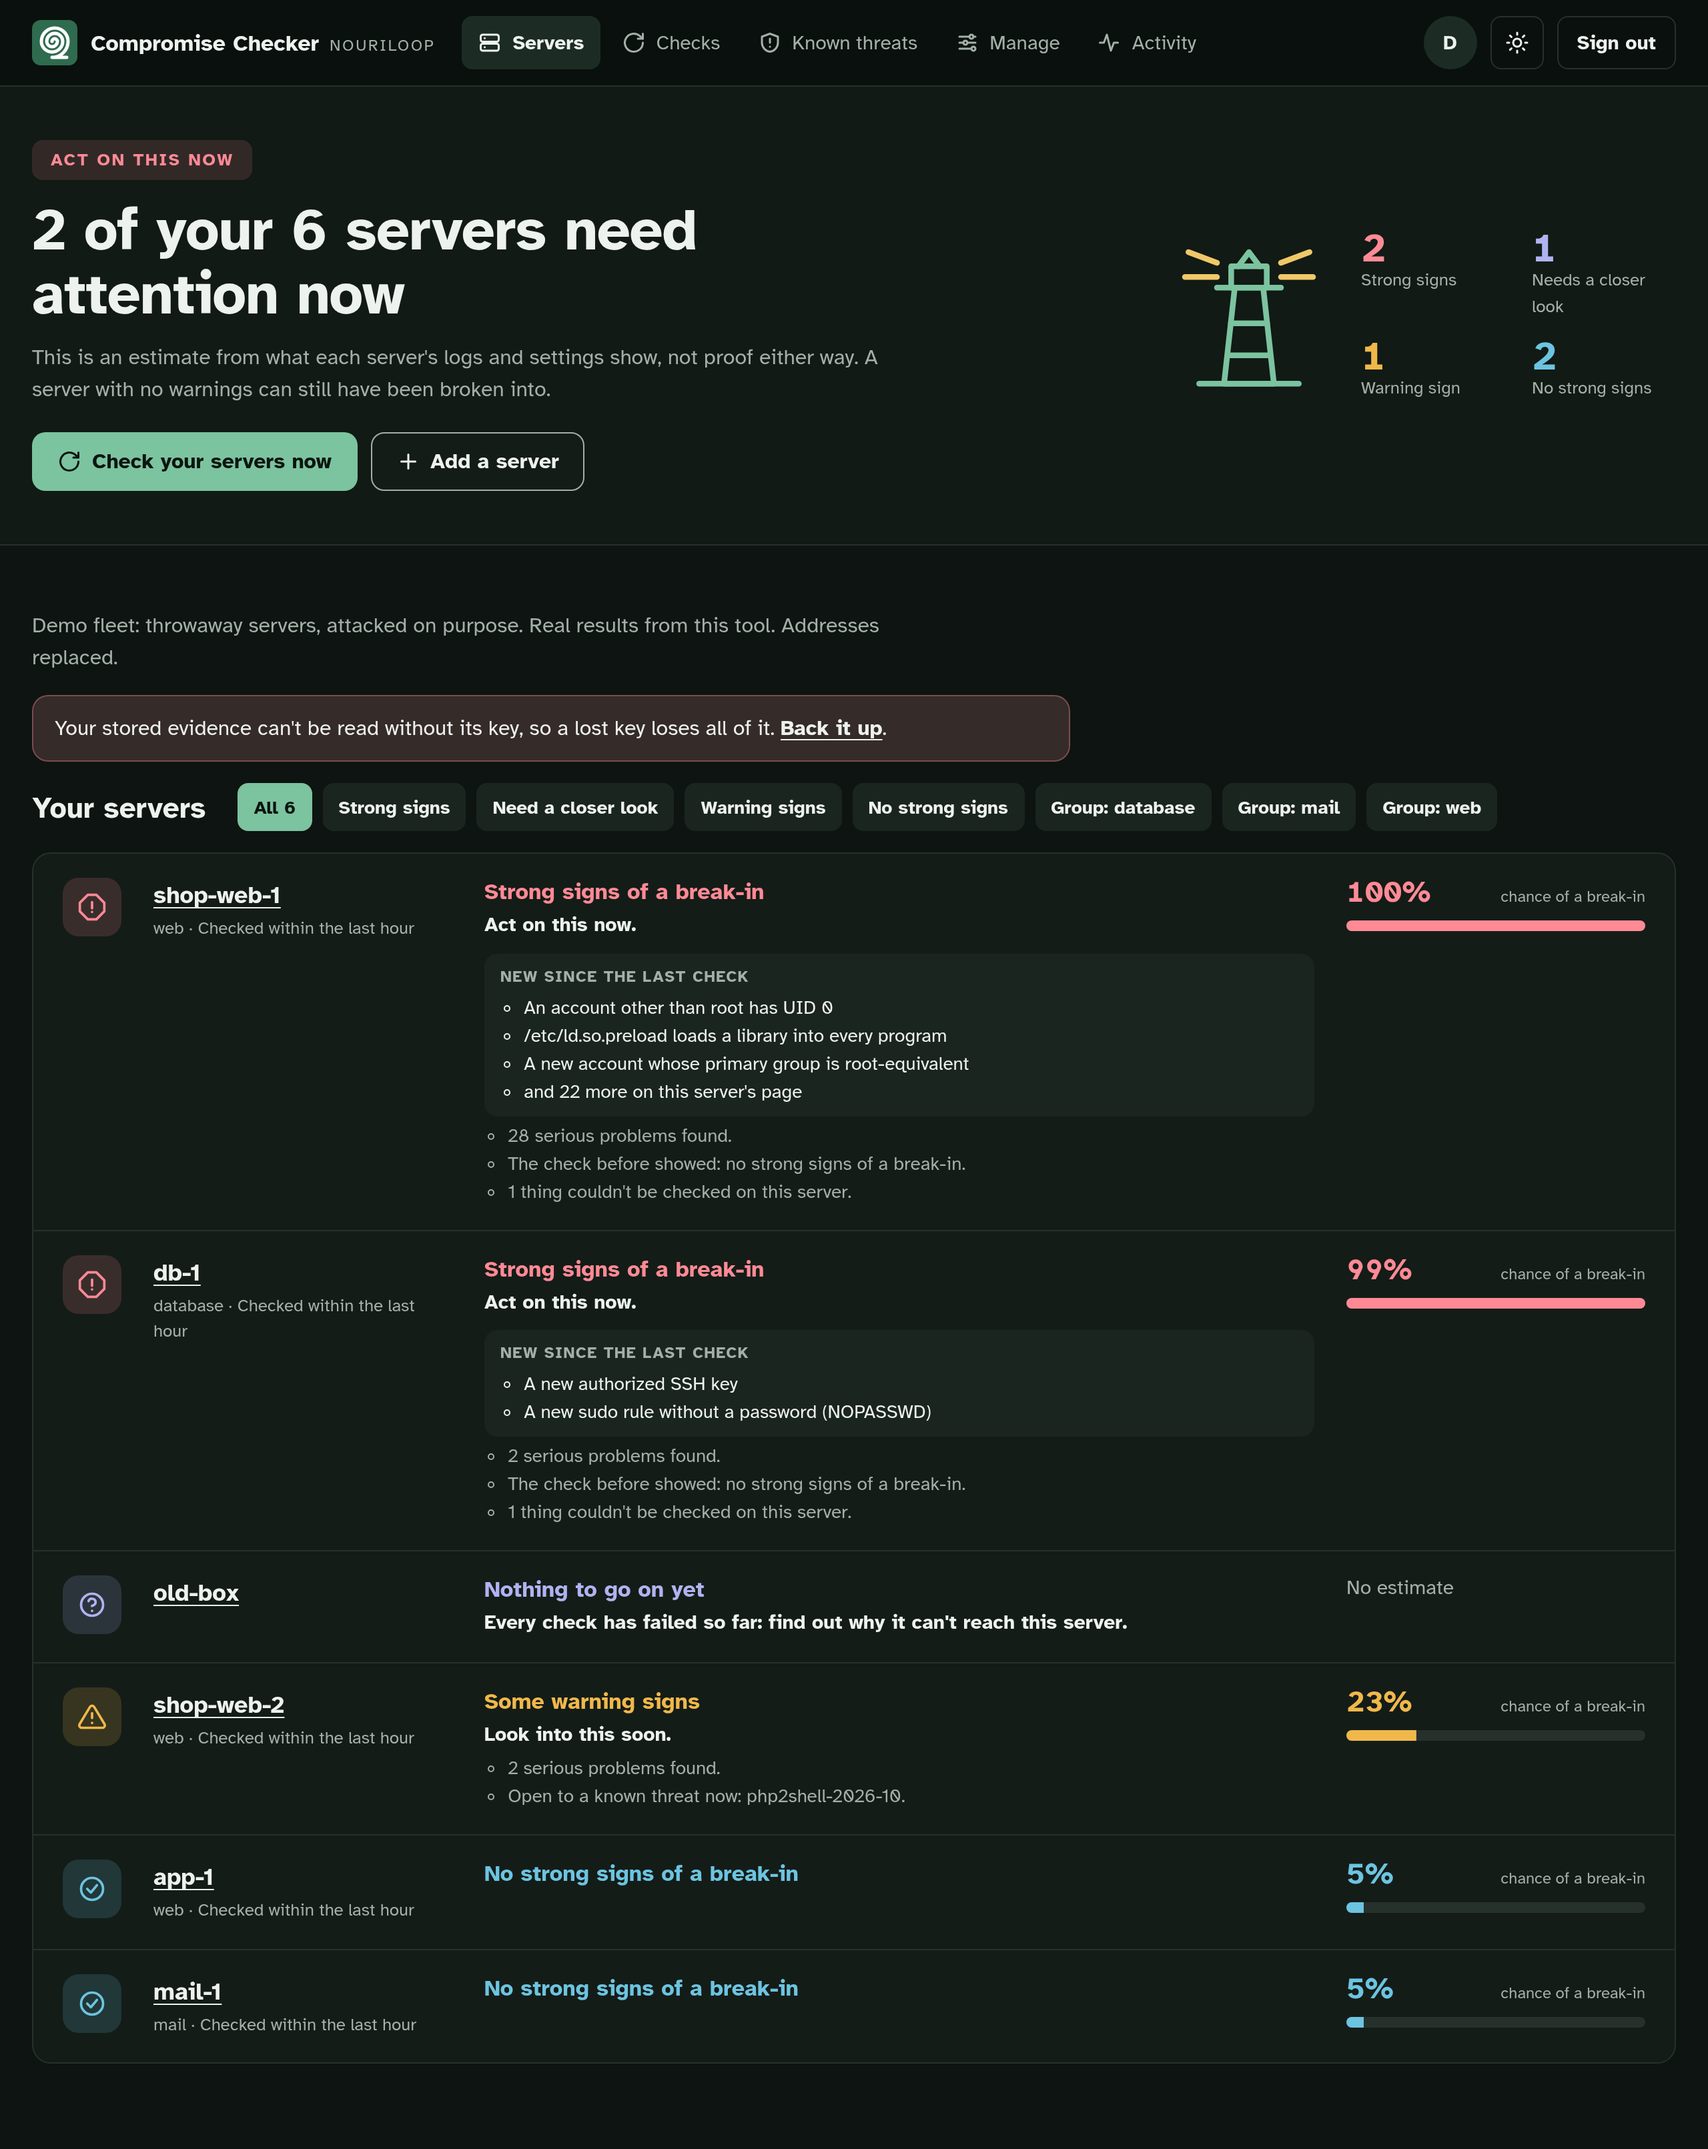
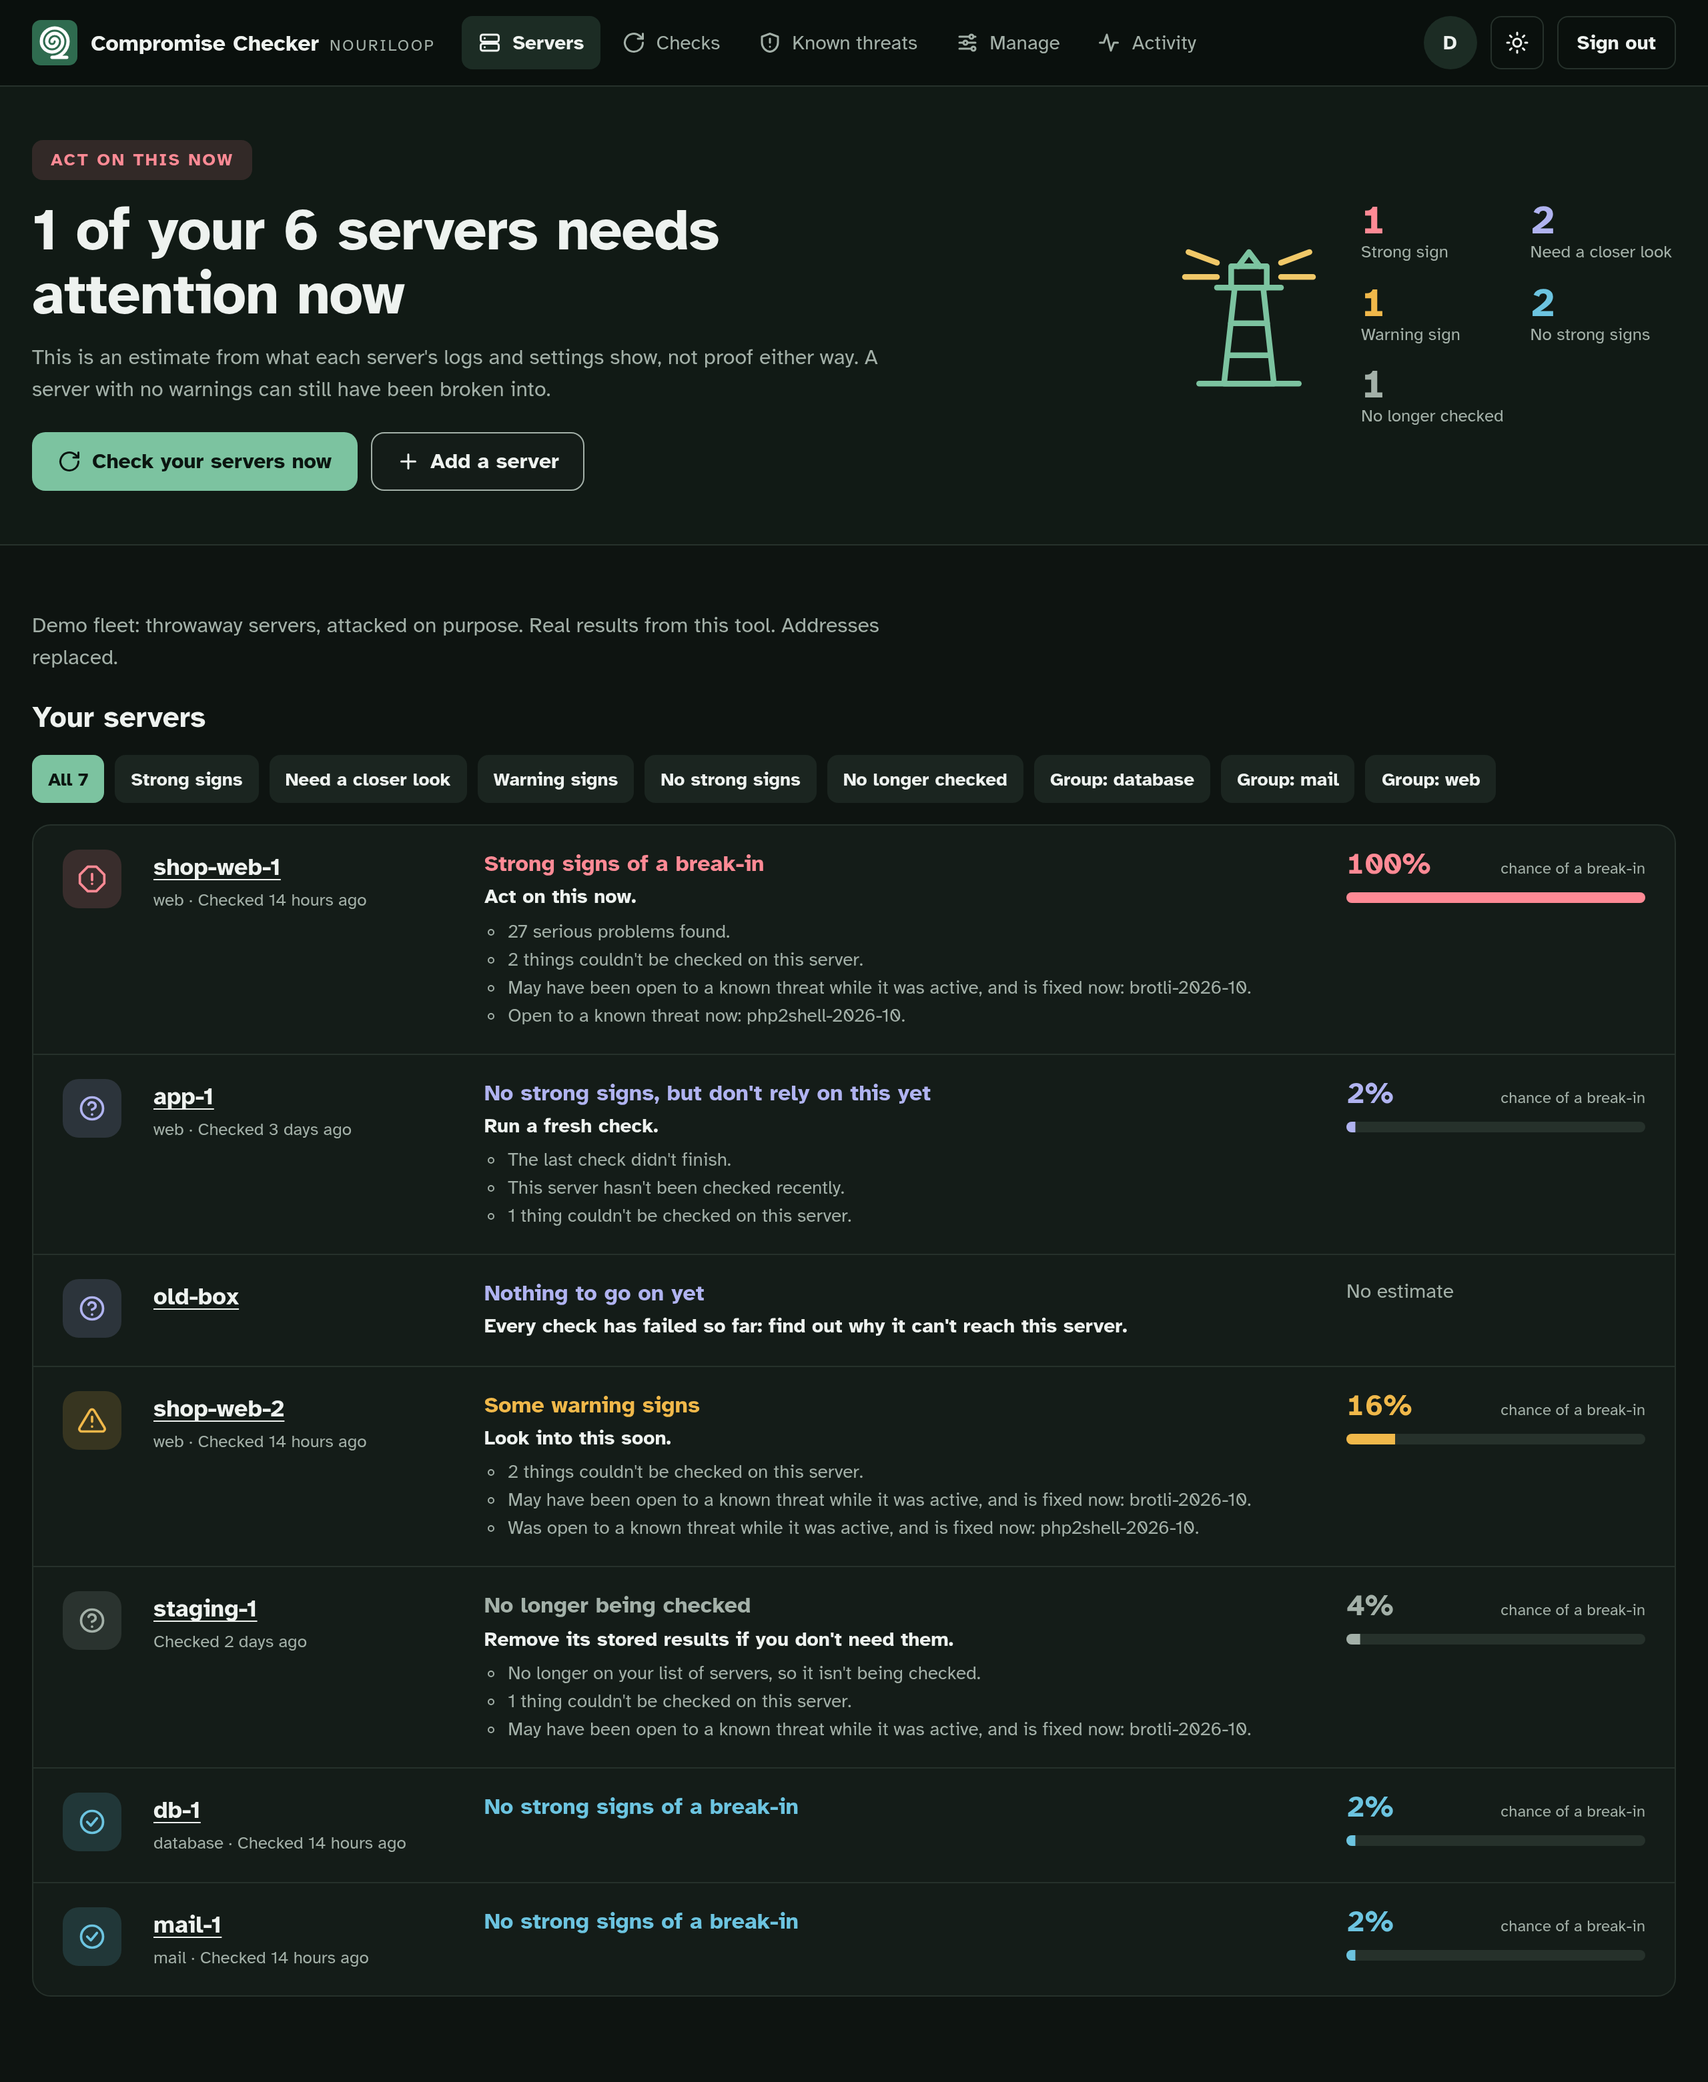
README pictures from the five-day run, scored by the current checker
The six pictures, taken from ~/demo-saves/run-a9020b-backup (saved 2026-11-20 after the
last check). The first take showed staging-1, untouched by the story, as signs of a
break-in: four false alarms, fixed in #197-#200. screenshots.py gains --scoring-changed
for a save older than the scoring:
- results that move are the newer code's: taken and printed, unless a whitelist rule
  has expired since the last check (that still stops the run);
- every check since each server's baseline is worked out again, oldest first, so the
  pages don't note the old code's bands ("The check before showed", "This same check
  first showed"); checks from before a baseline are left as they were, since they'd
  compare with a baseline accepted after them.

diff --git a/tests/integration/screenshots.py b/tests/integration/screenshots.py
@@ -14,6 +14,7 @@ from __future__ import annotations
 
 import argparse
 import getpass
+import json
 import os
 import re
 import secrets
@@ -108,6 +109,12 @@ def main() -> int:
     parser.add_argument("--out", type=Path, required=True)
     parser.add_argument("--name", default="Compromise Checker")
     parser.add_argument("--chromium", default=os.environ.get("CHROMIUM", "/usr/bin/chromium"))
+    parser.add_argument(
+        "--scoring-changed",
+        action="store_true",
+        help="the checker's scoring changed since the save: take its new results (each is"
+        " printed), unless a whitelist rule has expired since the last check",
+    )
     args = parser.parse_args()
     dataset = args.dataset.resolve()
     args.out = args.out.resolve()
@@ -121,7 +128,7 @@ def main() -> int:
         home = demo.working_copy(dataset, scratch)
         # From here on, the checker's code reads this copy and never the laptop's own home.
         os.environ["CHECKER_HOME"] = str(home)
-        score_again(home)
+        score_again(home, scoring_changed=args.scoring_changed)
         names = NAMES | {name: "admin" for name in demo.names_of(dataset)}
         return photograph(home, demo.addresses_of(dataset), names, args)
     except demo.DemoError as exc:
@@ -137,17 +144,84 @@ def main() -> int:
             )
 
 
-def score_again(home: Path) -> None:
+def score_again(home: Path, scoring_changed: bool = False) -> None:
     """Each server's latest result worked out again in the copy, with the same evidence and the
     same rules. A stored result names its whitelist by a digest that holds each rule file's full
     path, and the copy's files are in another folder from the server's: without this, every
     server would read "Settings have changed since this result". A rule's expiry counts from the
     day this runs, not the day of the last check, so the run stops if any server's result moves:
-    the pictures must show what the checks said."""
+    the pictures must show what the checks said.
+
+    When the checker's scoring changed since the save (`scoring_changed`), a result that moves is
+    the new code's and is taken, and printed; one that moves because a rule expired still stops
+    the run. Each check since each server's baseline is then worked out again too, oldest first,
+    and the latest last: the pages compare a result with the check before it and with the one
+    before it for the same collection, and would otherwise say "The check before showed" or
+    "This same check first showed" the old code's band, a note about the upgrade, not about the
+    fleet. A check from before a server's baseline is left as it was: worked out again, it would
+    compare with a baseline accepted after it ran."""
     before = results(home)
+    _analyze_all(home)
+    after = results(home)
+    moved = sorted(h for h in before.keys() | after.keys() if before.get(h) != after.get(h))
+    if not moved:
+        return
+    said = ", ".join(f"{h} ({before.get(h)} -> {after.get(h)})" for h in moved)
+    if not scoring_changed:
+        sys.exit(
+            f"screenshots: scoring the copy again changed {said}. A whitelist rule may have"
+            " expired since the last check: take the pictures the day the data was saved. If"
+            " the checker's scoring changed since the save, --scoring-changed takes the new"
+            " results."
+        )
+    if expired := expired_rules(home):
+        sys.exit(
+            "screenshots: scoring the copy again changed "
+            + said
+            + ", and whitelist rules have expired since the last check ("
+            + "; ".join(f"{h}: {', '.join(rules)}" for h, rules in sorted(expired.items()))
+            + "): the pictures would show results the checks never gave. Take them from a"
+            " fresh save."
+        )
+    for host in moved:
+        print(
+            f"screenshots: scored by the newer code: {host} {before.get(host)} -> {after.get(host)}"
+        )
+    for host, bundle in checks_since_baselines(home):
+        _analyze(home, [host, "--bundle", bundle])
+    if (again := results(home)) != after:
+        sys.exit(f"screenshots: scoring the copy a second time moved it again: {after} -> {again}")
+
+
+def checks_since_baselines(home: Path) -> list[tuple[str, str]]:
+    """(server, check) for each check collected since its server's current baseline, oldest
+    first, so each server's latest comes last."""
+    from checker.baseline import current_baseline, usable_bundles
+    from checker.evidence import Store, database_file
+
+    store = Store(database_file(home), read_only=True)
+    try:
+        found = []
+        for host in store.hosts():
+            baseline = current_baseline(store, host)
+            if baseline is None:
+                continue
+            since = store.bundle(baseline["bundle_id"])["started_at"]
+            rows = [r for r in usable_bundles(store, host) if r["started_at"] >= since]
+            found += [(r["started_at"], host, r["id"]) for r in rows]
+    finally:
+        store.close()
+    return [(host, bundle) for _, host, bundle in sorted(found)]
+
+
+def _analyze_all(home: Path) -> None:
+    _analyze(home, ["--all"])
+
+
+def _analyze(home: Path, words: list[str]) -> None:
     try:
         done = subprocess.run(
-            [sys.executable, "-I", "-m", "checker", "analyze", "--all"],
+            [sys.executable, "-I", "-m", "checker", "analyze", *words],
             env={**os.environ, "CHECKER_HOME": str(home)},
             capture_output=True,
             text=True,
@@ -158,14 +232,29 @@ def score_again(home: Path) -> None:
         sys.exit("screenshots: scoring the copy again took over 30 minutes; stopped")
     if done.returncode:
         sys.exit(f"screenshots: scoring the copy again failed:\n{done.stderr.strip()[-2000:]}")
-    after = results(home)
-    if moved := sorted(h for h in before.keys() | after.keys() if before.get(h) != after.get(h)):
-        sys.exit(
-            "screenshots: scoring the copy again changed "
-            + ", ".join(f"{h} ({before.get(h)} -> {after.get(h)})" for h in moved)
-            + ". A whitelist rule may have expired since the last check: take the pictures"
-            " the day the data was saved."
-        )
+
+
+def expired_rules(home: Path) -> dict[str, list[str]]:
+    """The whitelist rules each server's result now finds expired, from the report the copy's
+    checker writes (into the copy, which is deleted)."""
+    out = home / "screenshots-expired.json"
+    done = subprocess.run(
+        [sys.executable, "-I", "-m", "checker", "report", "--all", "--format", "json"]
+        + ["--plain", "--output", str(out)],
+        env={**os.environ, "CHECKER_HOME": str(home)},
+        capture_output=True,
+        text=True,
+        check=False,
+        timeout=1800,
+    )
+    if done.returncode:
+        sys.exit(f"screenshots: reading the copy's rules failed:\n{done.stderr.strip()[-2000:]}")
+    hosts = json.loads(out.read_text()).get("hosts") or []
+    return {
+        h["host"]: [str(r) for r in h["whitelist_rules_expired"]]
+        for h in hosts
+        if h.get("whitelist_rules_expired")
+    }
 
 
 def results(home: Path) -> dict[str, tuple[str | None, float | None]]:

diff --git a/tests/test_demo.py b/tests/test_demo.py
@@ -2226,6 +2226,44 @@ def test_the_pictures_folder_can_never_be_the_dataset_or_hold_it(tmp_path):
     assert "an earlier run's copy" in screenshots.refusal(dataset, other)
 
 
+def test_scoring_again_takes_newer_scoring_only_when_asked_and_never_past_an_expired_rule(
+    tmp_path, monkeypatch, capsys
+):
+    pytest.importorskip("playwright")
+    import subprocess
+
+    import screenshots
+
+    old = {"staging-1": ("High", 0.5664), "shop-web-1": ("Critical", 1.0)}
+    new = {"staging-1": ("Low", 0.0461), "shop-web-1": ("Critical", 1.0)}
+
+    def scored(before, after, expired=None, again=None):
+        answers = iter([before, after, again or after])
+        monkeypatch.setattr(screenshots, "results", lambda home: next(answers))
+        monkeypatch.setattr(screenshots, "expired_rules", lambda home: expired or {})
+        monkeypatch.setattr(screenshots, "checks_since_baselines", lambda home: [("db-1", "b2")])
+        monkeypatch.setattr(
+            screenshots.subprocess, "run", lambda *a, **k: subprocess.CompletedProcess(a, 0)
+        )
+
+    scored(old, old)
+    screenshots.score_again(tmp_path)  # nothing moved: nothing to say
+    scored(old, new)
+    with pytest.raises(SystemExit, match="--scoring-changed takes the new results"):
+        screenshots.score_again(tmp_path)
+    scored(old, new)
+    screenshots.score_again(tmp_path, scoring_changed=True)
+    assert "staging-1 ('High', 0.5664) -> ('Low', 0.0461)" in capsys.readouterr().out
+    # Every check since the baseline worked out again, so the pages don't note the old code's
+    # bands: the latest results must hold.
+    scored(old, new, again=old)
+    with pytest.raises(SystemExit, match="a second time moved it again"):
+        screenshots.score_again(tmp_path, scoring_changed=True)
+    scored(old, new, expired={"staging-1": ["host staging-1/backup-job"]})
+    with pytest.raises(SystemExit, match="staging-1: host staging-1/backup-job"):
+        screenshots.score_again(tmp_path, scoring_changed=True)
+
+
 def test_the_people_who_used_the_demo_are_named_from_its_own_records(tmp_path):
     """Seen in review: "john (web interface)" was in the evidence page's custody list."""
     import sqlite3

diff --git a/plans/demo-fleet-plan-2026-11-10.md b/plans/demo-fleet-plan-2026-11-10.md
@@ -277,6 +277,7 @@ folder on dev:
 3. `screenshots.py --dataset ~/demo-saves/run-<id>-backup --out docs/screenshots`, the same
    night: every page `ok` with no overflow and no page errors. It works each result out again
    in its copy, with rule expiry counted from that day, and stops if any score moves.
+   `--scoring-changed` when the checker's scoring changed since the save (see below).
 4. Look at all six before they go in: the demo banner on each; no evidence-key reminder (the
    script says the key is backed up, in its copy only); no red banner for password logins or a
    pending restart (#184); no "Settings have changed since this result" line (see below).
@@ -289,3 +290,15 @@ result looked scored against another whitelist. `screenshots.py` now runs `check
 in its copy first: the same evidence and rules, worked out again, scores unchanged. The digest
 itself is fixed in its own PR, since a restored or moved checker home showed the same; the five-day
 run's server still stores the old form, so the script's step stays needed for its data.
+
+**Done 2026-11-20 (a day late: Thursday's last check ran, the save didn't).** The checker's server
+was restarted first (a libc6 update's note), then saved twice (`run-a9020b`, `-backup`, both PASS).
+The first pictures showed staging-1, which the story never touched, as "Signs of a break-in, 57%":
+four false alarms after Ubuntu's daily update (#197 resolver file under /run, #198 setup accounts
+in the logs, #199 containerd's random port, #200 dpkg checksum lists), each fixed narrowly and
+reviewed twice, plus #196 for a test dated 2026-11-15. The pictures were then taken again from the
+same save with `--scoring-changed`: the newer code's results are taken and printed (unless a
+whitelist rule has expired since the last check, which still stops the run), and every check since
+each server's baseline is worked out again, oldest first, so the pages don't say "The check before
+showed" or "This same check first showed" the old code's bands. Checks from before a baseline are
+left as they were. staging-1 now reads Low 4%, shop-web-1 Critical 100%.
